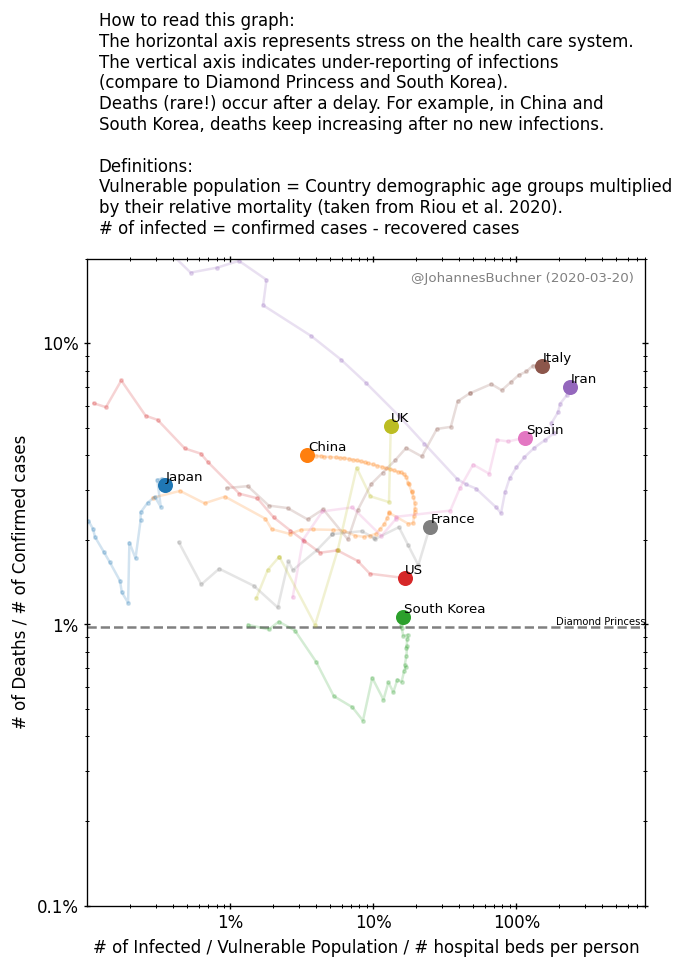
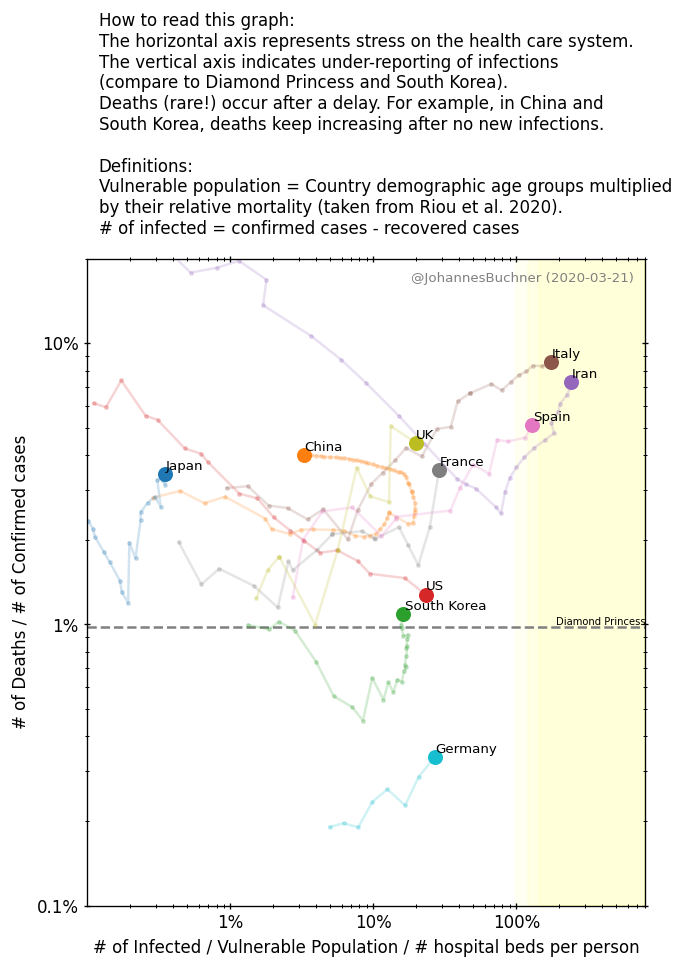
updated plots

diff --git a/ratio.py b/ratio.py
@@ -72,7 +72,7 @@ beds = pandas.read_csv('UNdata/UNdata_Export_hospitalbeds.csv')
 prop_cycle = plt.rcParams['axes.prop_cycle']
 colors = prop_cycle.by_key()['color'] * 100
 
-marked_countries = ['Japan', 'China', 'South Korea', 'US', 'Iran', 'Italy', 'Spain', 'France', 'UK']
+marked_countries = ['Japan', 'China', 'South Korea', 'US', 'Iran', 'Italy', 'Spain', 'France', 'UK', 'Germany']
 #marked_countries = ['US', 'Germany', 'Japan', 'Italy', 'Korea, South', 'Iran']
 #marked_countries_colors = {'US':'red', 'Japan':'brown', 'Italy':'green', 
 #	'Korea, South':'black', 'Iran':'blue', 'France':'lime', 'China':'pink',
@@ -90,6 +90,8 @@ use_all_countries = os.environ.get('COUNTRIES', 'all') == 'all'
 atexts = []
 btexts = []
 #min_dead = 4
+min_series = 10
+min_series = 7
 
 print("per-country extraction:")
 print()
@@ -153,7 +155,7 @@ for (i, row1), (_, row2), (_, row3) in zip(d1.iterrows(), d2.iterrows(), d3.iter
 	x = timeseries_cases[mask] / vulnerable_number.sum()
 	y = timeseries_dead[mask] / timeseries_reported[mask]
 	marker = 'o-' if country_brief in marked_countries else 's-'
-	size = 8 if mask.sum() > 10 else 4
+	size = 8 if mask.sum() > min_series else 4
 	if mask.any():
 		l, = ax.plot(x[-1], y[-1], marker, ms=size, color=color)
 		atexts.append(ax.text(x[-1], y[-1], country_brief, va='bottom', ha='left', size=8))
@@ -171,7 +173,7 @@ for (i, row1), (_, row2), (_, row3) in zip(d1.iterrows(), d2.iterrows(), d3.iter
 	if mask.any():
 		l, = bx.plot(x[-1], y[-1], marker, ms=size, color=color)
 		btexts.append(bx.text(x[-1], y[-1], country_brief, va='bottom', ha='left', size=8))
-		if mask.sum() > 10 or country_brief in marked_countries:
+		if mask.sum() > min_series or country_brief in marked_countries:
 			bx.plot(x, y, marker, ms=2, label=country_brief, alpha=0.2, color=l.get_color())
 	
 	else:
@@ -250,6 +252,9 @@ plt.hlines(7/712, 1e-3, 8, linestyles=['--'], color='gray')
 plt.text(8, 7/712, 'Diamond Princess', ha='right', va='bottom', size=6)
 plt.ylim(1e-3, 0.2)
 plt.xlim(1e-3, 8)
+bx.fill_between([1.0, 8], [1e-3, 1e-3], [0.2, 0.2], color='yellow', alpha=0.05)
+bx.fill_between([1.2, 8], [1e-3, 1e-3], [0.2, 0.2], color='yellow', alpha=0.05)
+bx.fill_between([1.2**2, 8], [1e-3, 1e-3], [0.2, 0.2], color='yellow', alpha=0.05)
 adjust_text(btexts)
 #plt.legend(loc='best', ncol=3, prop=dict(size=8))
 if use_all_countries:
